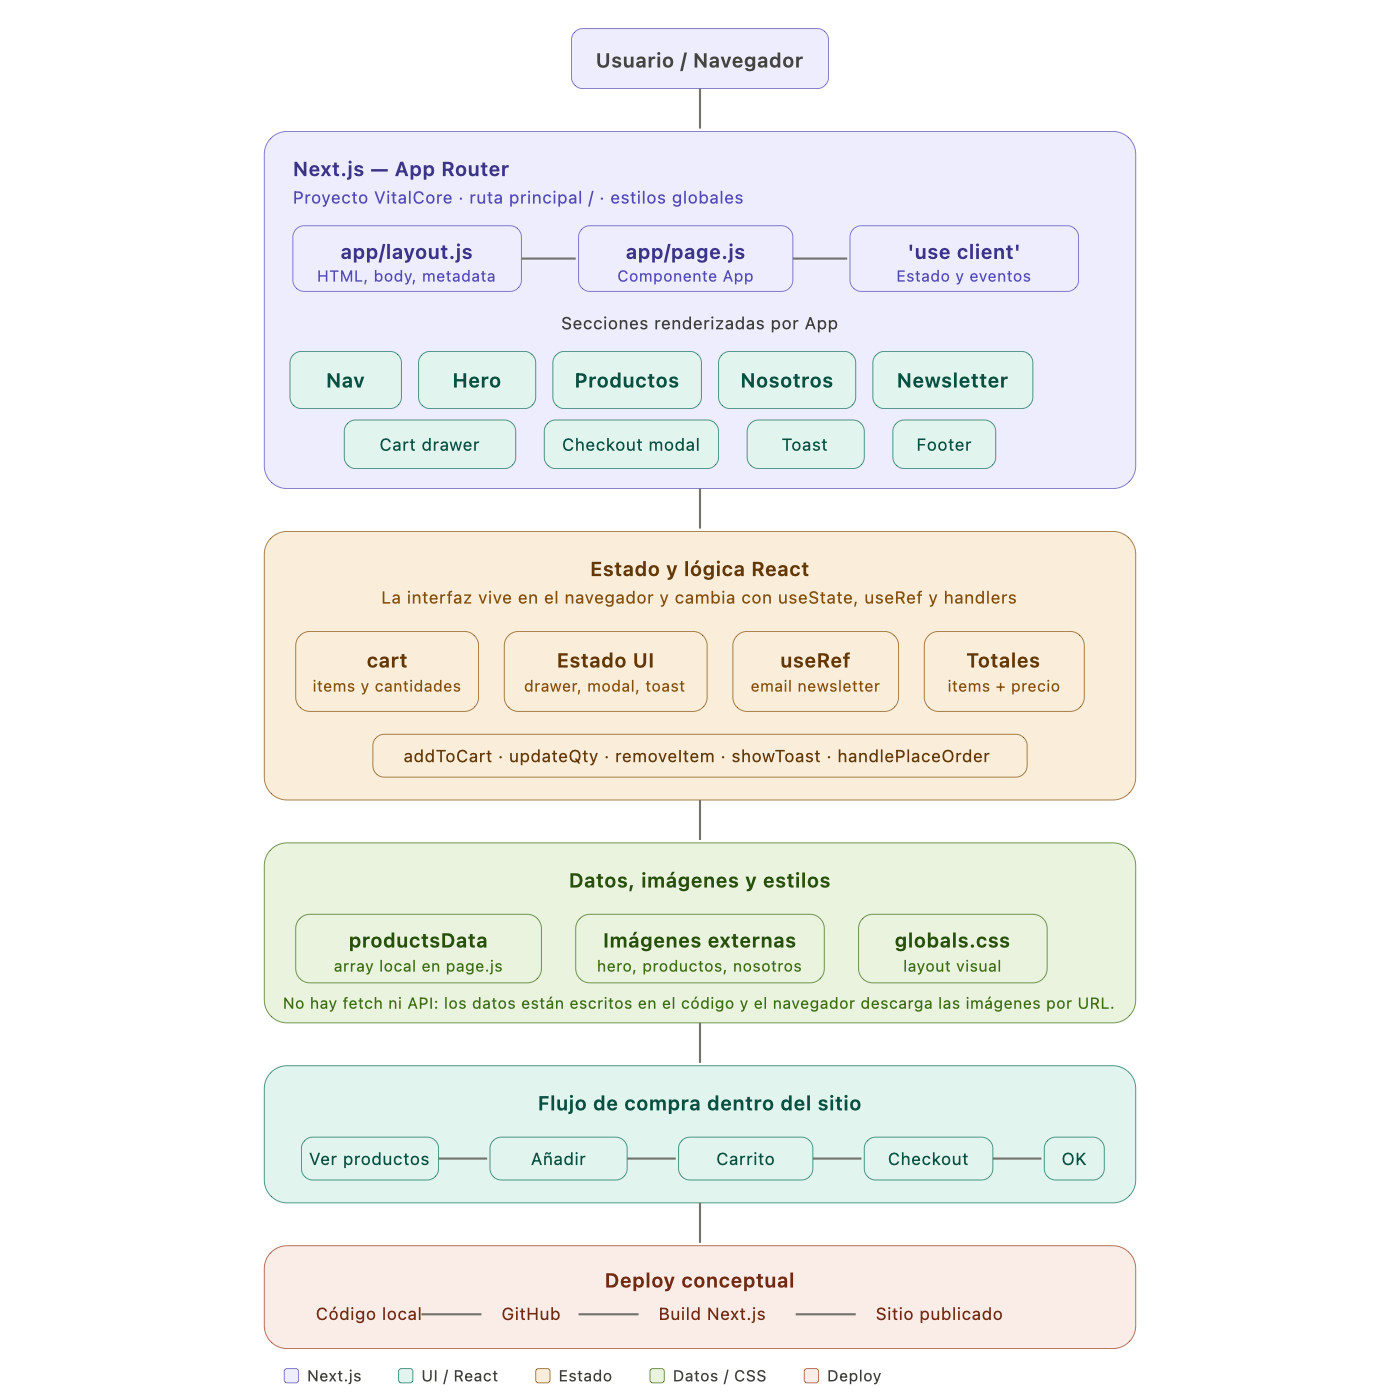
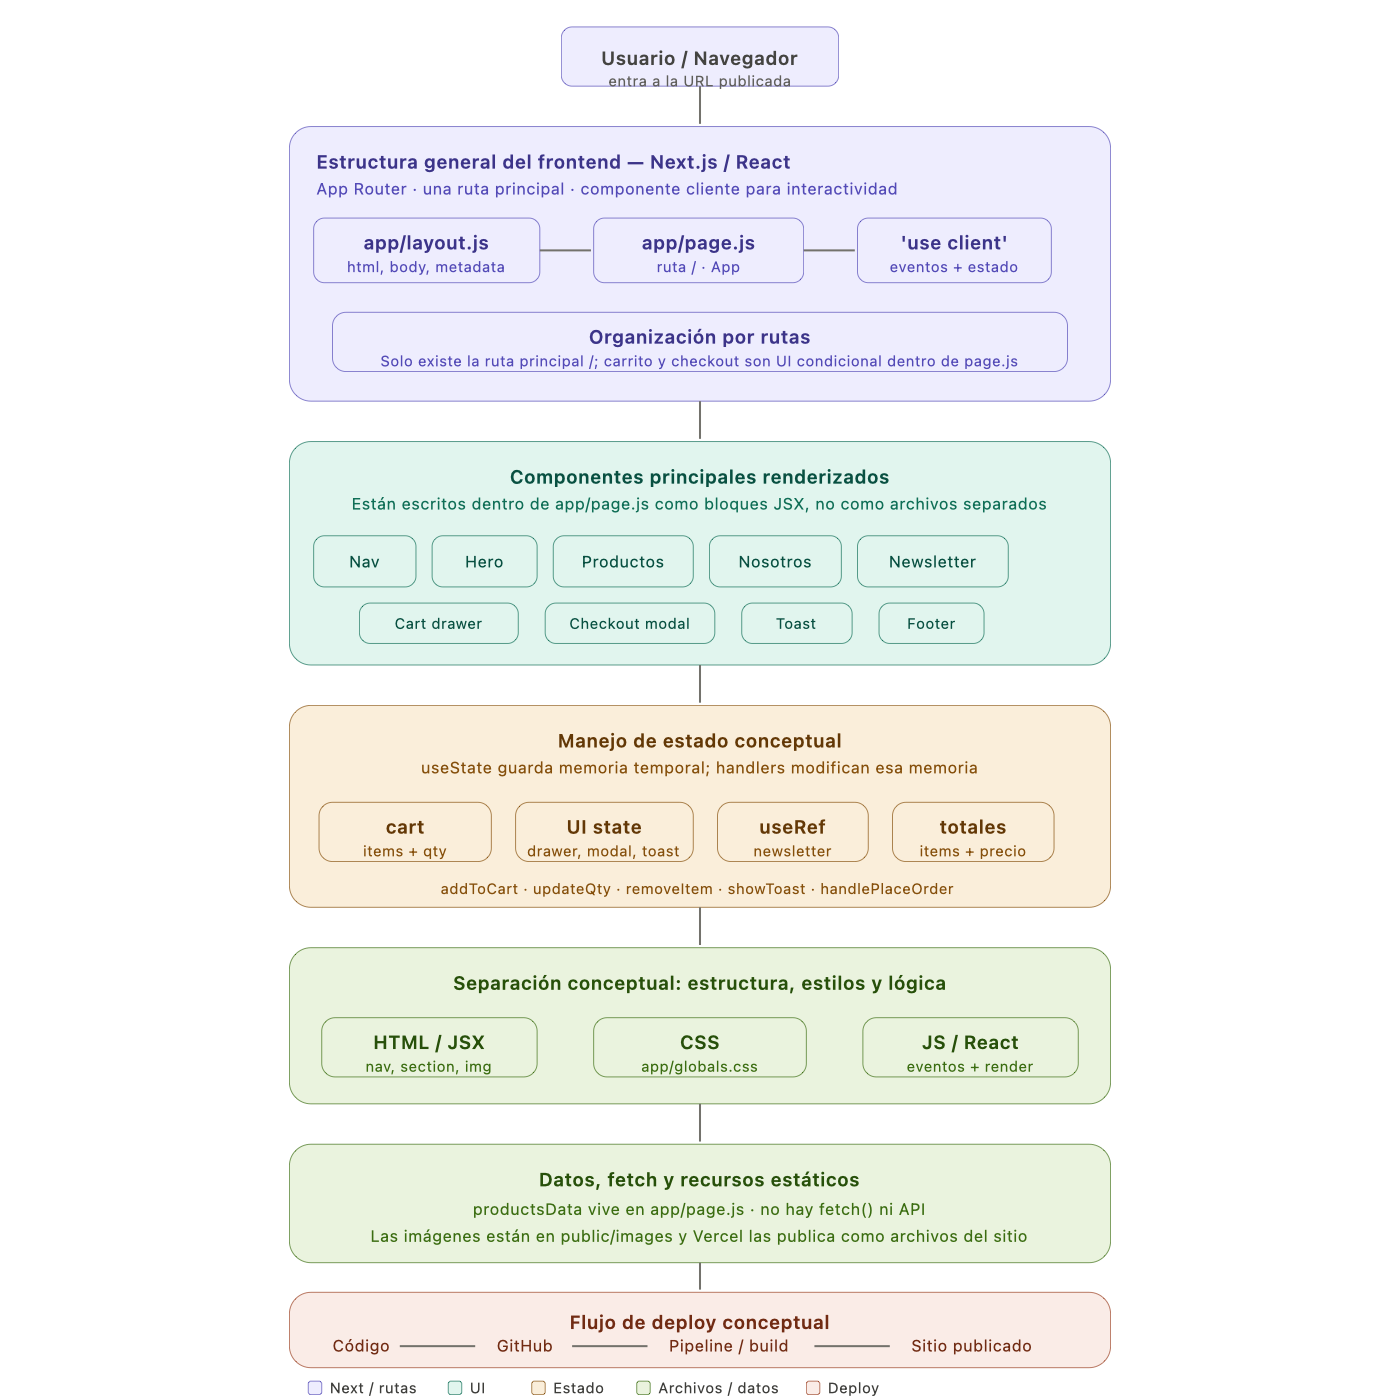
explicacion

Changed region(s): [[0.1843, 0.0921, 0.8293, 1.0], [0.6143, 0.1536, 0.7371, 0.215], [0.43, 0.0307, 0.5836, 0.0614]]

diff --git a/docs/diagrama-frontend.md b/docs/diagrama-frontend.md
@@ -40,9 +40,9 @@ flowchart LR
         js["JavaScript / React<br/>Eventos, estados, render condicional"]
     end
 
-    subgraph recursos["Datos y recursos externos"]
+    subgraph recursos["Datos y recursos estaticos"]
         fetch["fetch/API<br/>No se usa en este proyecto"]
-        imgs["Imagenes externas<br/>URLs en etiquetas img"]
+        imgs["public/images<br/>Imagenes locales publicadas por Next/Vercel"]
     end
 
     subgraph deploy["Deploy conceptual"]
@@ -94,7 +94,9 @@ flowchart LR
     js --> stateUI
 
     fetch -. "No aplica: no hay llamadas fetch()" .-> productsData
-    imgs --> navegador
+    imgs --> hero
+    imgs --> productos
+    imgs --> nosotros
 
     codigo --> github
     github --> pipeline
@@ -104,7 +106,7 @@ flowchart LR
 
 ## Que muestra el diagrama
 
-El diagrama muestra como funciona el frontend de VitalCore desde que una persona entra al sitio hasta que interactua con el carrito, el checkout y el newsletter. Tambien muestra como se separan la estructura, los estilos y la logica, y como seria el deploy de forma conceptual.
+El diagrama muestra como funciona el frontend de VitalCore desde que una persona entra al sitio hasta que interactua con el carrito, el checkout y el newsletter. Tambien muestra como se separan la estructura, los estilos y la logica, como se usan los recursos estaticos en `public/images`, y como seria el deploy de forma conceptual.
 
 ## 1. Usuario y navegador
 
@@ -142,6 +144,27 @@ En tu codigo los componentes no estan separados en archivos como `Nav.jsx` o `Pr
 
 `Toast` es el mensaje temporal que aparece cuando se agrega un producto o cuando se intenta suscribir al newsletter.
 
+Si el proyecto estuviera separado en componentes reales, en vez de tener todo dentro de `app/page.js`, podria verse asi:
+
+```text
+app/
+  layout.js
+  page.js
+components/
+  Nav.jsx
+  Hero.jsx
+  ProductsGrid.jsx
+  ProductCard.jsx
+  FeaturesSection.jsx
+  CartDrawer.jsx
+  CheckoutModal.jsx
+  Toast.jsx
+data/
+  products.js
+```
+
+En ese caso, `app/page.js` funcionaria como una pagina contenedora: importaria esos componentes y les pasaria datos o funciones por props. Por ejemplo, `ProductsGrid` recibiria `productsData` y `addToCart`; `CartDrawer` recibiria `cart`, `updateQty` y `removeItem`; `CheckoutModal` recibiria `cartTotalPrice` y `handlePlaceOrder`.
+
 ## 4. Manejo de estado
 
 El estado es la memoria temporal de la interfaz. En tu proyecto se maneja con `useState`.
@@ -162,6 +185,18 @@ Ademas, se calculan dos valores derivados:
 
 `cartTotalPrice` suma el precio total segun precio por cantidad. Sirve para mostrar el total en el carrito y en el checkout.
 
+En el diagrama, `UI state` significa "estado de interfaz". No guarda productos, sino si ciertas partes visuales estan abiertas, cerradas o activas. En tu codigo corresponde a `isCartOpen`, `isCheckoutOpen`, `isCheckoutSuccess` y `toastMsg`.
+
+`useRef` es una herramienta de React para guardar una referencia a un elemento del DOM sin convertirlo en estado. En tu caso se usa en `newsletterInputRef`, conectado al input del newsletter. Cuando el usuario toca "Suscribir", el codigo lee `newsletterInputRef.current?.value` para saber que email escribio, muestra un mensaje y despues limpia el input.
+
+`totales` no es un estado nuevo. Representa calculos derivados del carrito:
+
+`cartTotalItems` calcula cuantos productos hay en total.
+
+`cartTotalPrice` calcula el precio total del carrito.
+
+Se llaman derivados porque no se guardan con `useState`; se recalculan a partir de `cart`.
+
 ## 5. Logica de interaccion
 
 La logica esta en funciones dentro de `page.js`.
@@ -176,23 +211,29 @@ La logica esta en funciones dentro de `page.js`.
 
 `handlePlaceOrder()` simula confirmar la compra. Marca el checkout como exitoso y vacia el carrito.
 
-## 6. Uso de fetch
+Todas esas funciones existen en `app/page.js`. En el diagrama aparecen agrupadas como "handlers" porque son funciones que responden a acciones del usuario, como hacer click en "Añadir al Carrito", cambiar cantidades, eliminar productos o confirmar el pedido.
+
+## 6. Uso de fetch y recursos
 
 En este proyecto no se usa `fetch()`.
 
 Eso significa que los productos no vienen de una API, base de datos o servidor externo. Estan escritos directamente en el archivo `app/page.js`, dentro de `productsData`.
 
-Lo unico externo que carga el navegador son imagenes por URL dentro de etiquetas `<img>`. Eso no es lo mismo que usar `fetch()` para pedir datos. El navegador simplemente descarga esas imagenes para poder mostrarlas.
+Las imagenes tampoco dependen ahora de servidores externos. Estan guardadas dentro de `public/images`, por ejemplo `/images/product-creatina.jpg`, `/images/hero-bodybuilder.jpg` y `/images/feature-calidad.jpg`.
+
+Eso es importante para Vercel: Next.js publica automaticamente todo lo que esta dentro de `public/`, entonces el navegador pide esas imagenes al mismo sitio publicado y no a dominios de terceros.
 
 ## 7. Separacion entre HTML, CSS y JavaScript/React
 
-La estructura esta en `app/page.js`, escrita como JSX. JSX se parece a HTML, pero permite usar JavaScript dentro. Ahi aparecen etiquetas como `nav`, `section`, `div`, `button`, `input`, `footer` e `img`.
+La estructura esta en `app/page.js`, escrita como JSX. JSX significa JavaScript XML. Es la sintaxis que usa React para escribir estructura visual parecida a HTML dentro de JavaScript. Por ejemplo, cuando ves `<section>`, `<button>` o `<img>` dentro de `page.js`, eso es JSX.
 
 Los estilos estan en `app/globals.css`. Ese archivo define colores, grillas, tamaños, posiciones, responsive, modal, drawer, tarjetas, botones, imagenes y animaciones.
 
 La logica tambien esta en `app/page.js`. Esa logica incluye estados, funciones, eventos de click, render condicional y calculos del carrito.
 
 En palabras simples: JSX arma la forma, CSS le da apariencia, y React/JavaScript le da comportamiento.
+
+UI significa User Interface, o interfaz de usuario. En este proyecto, la UI es todo lo que la persona ve y toca: la barra de navegacion, el hero, las tarjetas de producto, los botones, el carrito lateral, el checkout, el formulario de newsletter y los mensajes toast.
 
 ## 8. Deploy conceptual
 
@@ -229,6 +270,8 @@ Next.js usa `layout.js` como marco general y `page.js` como pagina principal.
 React maneja la memoria temporal con `useState`: carrito abierto, productos agregados, checkout abierto y mensajes.
 
 Los productos no vienen de una API: estan en un array local llamado `productsData`.
+
+Las imagenes del sitio se sirven desde `public/images`, por eso Vercel las publica junto con el proyecto.
 
 `globals.css` se encarga de la apariencia visual.
 